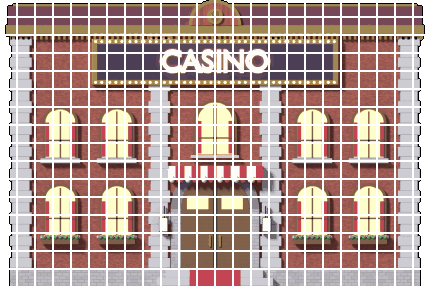
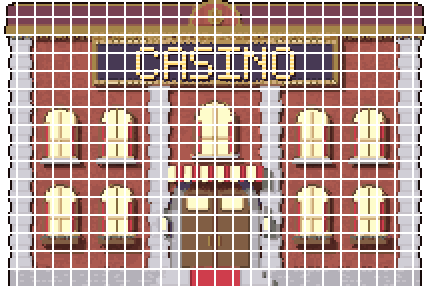
Restyle facade and slot symbols to vanilla Terraria pixel scale
- Renders are now pixelized at half resolution and drawn with 2x2 art
  pixels, like vanilla blocks and items, with a smaller palette
- Facade: render noise cleaned, inner edge lines, crisp pixel-font
  CASINO sign drawn over the board (also in the glow mask)
- BAR symbol label redrawn in a crisp pixel font

Claude-Session: https://claude.ai/code/session_01LdsgKwh3ZeC84d7Pb6q2ki

diff --git a/Content/Tiles/CasinoFacade.Light.cs b/Content/Tiles/CasinoFacade.Light.cs
@@ -7,18 +7,18 @@ namespace CasinoWorld.Content.Tiles
 		private static readonly byte[,] LightMap = {
 			{ 0, 0, 0, 0, 0, 0, 0, 0, 0, 0, 0, 0, 0, 0, 0, 0, 0, 0, 0, 0, 0, 0, 0, 0 },
 			{ 0, 0, 0, 0, 0, 0, 0, 0, 0, 0, 0, 0, 0, 0, 0, 0, 0, 0, 0, 0, 0, 0, 0, 0 },
-			{ 0, 0, 0, 0, 0, 43, 64, 50, 55, 160, 94, 135, 139, 89, 159, 55, 51, 65, 43, 0, 0, 0, 0, 0 },
-			{ 0, 0, 0, 0, 0, 0, 0, 0, 3, 255, 255, 255, 255, 255, 255, 6, 0, 0, 0, 0, 0, 0, 0, 0 },
-			{ 0, 0, 0, 0, 0, 44, 64, 50, 55, 103, 65, 106, 93, 62, 99, 55, 50, 64, 43, 0, 0, 0, 0, 0 },
-			{ 0, 0, 0, 0, 0, 0, 0, 0, 0, 0, 0, 66, 66, 0, 0, 0, 0, 0, 0, 0, 0, 0, 0, 0 },
-			{ 0, 0, 175, 255, 63, 89, 255, 145, 0, 0, 0, 255, 255, 0, 0, 0, 175, 255, 63, 89, 255, 145, 0, 0 },
-			{ 0, 0, 133, 255, 0, 34, 255, 101, 0, 0, 0, 255, 255, 0, 0, 0, 133, 255, 0, 34, 255, 101, 0, 0 },
-			{ 0, 0, 139, 255, 13, 45, 255, 109, 0, 0, 0, 255, 255, 0, 0, 0, 139, 255, 13, 45, 255, 109, 0, 0 },
+			{ 0, 0, 0, 0, 0, 47, 72, 93, 192, 199, 118, 223, 237, 184, 130, 192, 93, 72, 47, 0, 0, 0, 0, 0 },
+			{ 0, 0, 0, 0, 0, 0, 0, 191, 47, 255, 255, 179, 191, 209, 255, 191, 191, 0, 0, 0, 0, 0, 0, 0 },
+			{ 0, 0, 0, 0, 0, 47, 71, 117, 216, 150, 202, 213, 255, 201, 150, 216, 117, 71, 47, 0, 0, 0, 0, 0 },
+			{ 0, 0, 0, 0, 0, 0, 0, 0, 0, 0, 0, 71, 71, 0, 0, 0, 0, 0, 0, 0, 0, 0, 0, 0 },
+			{ 0, 0, 173, 255, 64, 89, 255, 149, 0, 0, 0, 255, 255, 0, 0, 0, 173, 255, 64, 89, 255, 149, 0, 0 },
+			{ 0, 0, 145, 255, 0, 32, 255, 90, 0, 0, 0, 255, 255, 0, 0, 0, 145, 255, 0, 32, 255, 90, 0, 0 },
+			{ 0, 0, 147, 255, 13, 45, 255, 99, 0, 0, 0, 255, 255, 0, 0, 0, 147, 255, 13, 45, 255, 99, 0, 0 },
 			{ 0, 0, 0, 0, 0, 0, 0, 0, 0, 0, 0, 0, 0, 0, 0, 0, 0, 0, 0, 0, 0, 0, 0, 0 },
-			{ 0, 0, 96, 255, 29, 44, 255, 78, 0, 0, 0, 0, 0, 0, 0, 0, 96, 255, 29, 44, 255, 78, 0, 0 },
-			{ 0, 0, 179, 255, 33, 70, 255, 145, 0, 0, 255, 255, 255, 255, 0, 0, 179, 255, 32, 70, 255, 145, 0, 0 },
-			{ 0, 0, 134, 255, 0, 34, 255, 101, 29, 217, 0, 0, 0, 0, 218, 29, 134, 255, 0, 34, 255, 101, 0, 0 },
-			{ 0, 0, 19, 44, 10, 11, 43, 17, 0, 0, 0, 0, 0, 0, 0, 0, 19, 44, 10, 11, 43, 17, 0, 0 },
+			{ 0, 0, 99, 255, 31, 46, 255, 78, 0, 0, 0, 0, 0, 0, 0, 0, 99, 255, 31, 46, 255, 78, 0, 0 },
+			{ 0, 0, 191, 255, 36, 72, 255, 137, 0, 0, 255, 255, 255, 255, 0, 0, 186, 255, 36, 72, 255, 137, 0, 0 },
+			{ 0, 0, 145, 255, 0, 32, 255, 93, 29, 226, 0, 0, 0, 0, 227, 29, 146, 255, 0, 32, 255, 93, 0, 0 },
+			{ 0, 0, 20, 50, 11, 13, 48, 19, 0, 0, 0, 0, 0, 0, 0, 0, 20, 51, 11, 13, 48, 19, 0, 0 },
 			{ 0, 0, 0, 0, 0, 0, 0, 0, 0, 0, 0, 0, 0, 0, 0, 0, 0, 0, 0, 0, 0, 0, 0, 0 },
 			{ 0, 0, 0, 0, 0, 0, 0, 0, 0, 0, 0, 0, 0, 0, 0, 0, 0, 0, 0, 0, 0, 0, 0, 0 },
 		};
